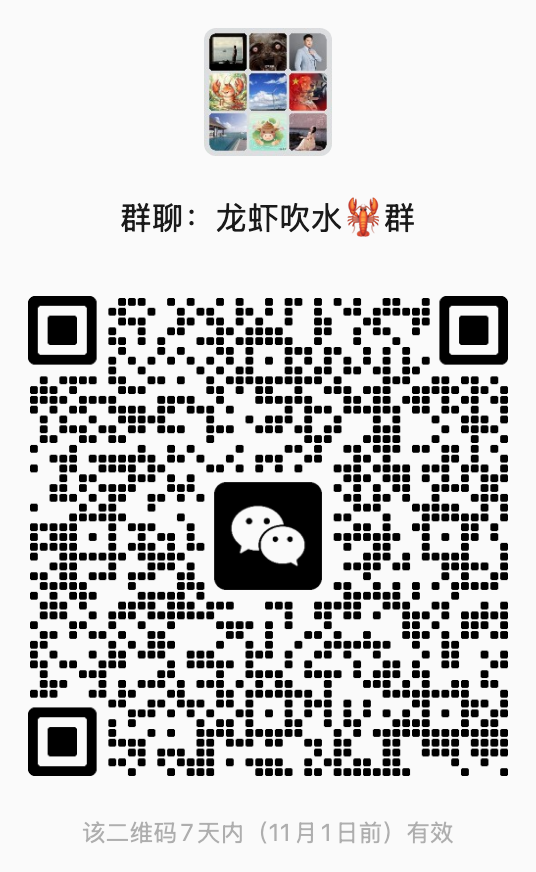
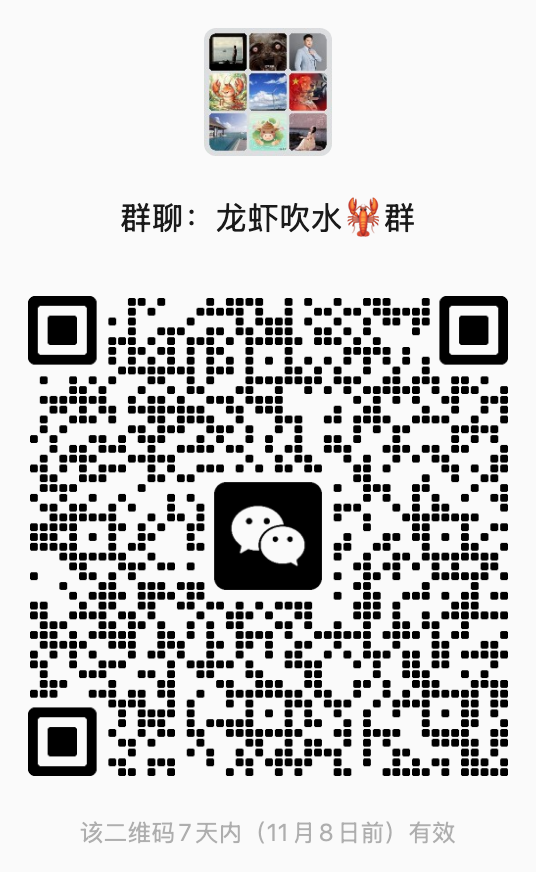
docs(community): 换新的加群二维码（有效期至 2026-11-08）
旧码 11-01 到期。新图按既有约定裁掉白边（内容边界左右各留 28px，输出
536x872 与旧图同尺寸），仍放在 docs/images/ 下，不进 npm 归档。

diff --git a/README.md b/README.md
@@ -329,7 +329,7 @@ dsh plugin --profile web add ./q253595422-dsh-imagegen-video-X.Y.Z.tgz
   <img src="docs/images/wechat-group-qr.png" alt="微信群「龙虾吹水🦞群」的加群二维码" width="360" />
 </div>
 
-> 二维码 7 天内有效（2026 年 11 月 1 日前）。过期或人数已满时，请改到
+> 二维码 7 天内有效（2026 年 11 月 8 日前）。过期或人数已满时，请改到
 > [Issues](https://github.com/q253595422/dsh-imagegen-video/issues) 提问题，
 > 并提醒维护者换一张新码。安全敏感的问题不要发在群里，也不要贴 API 密钥。
 
